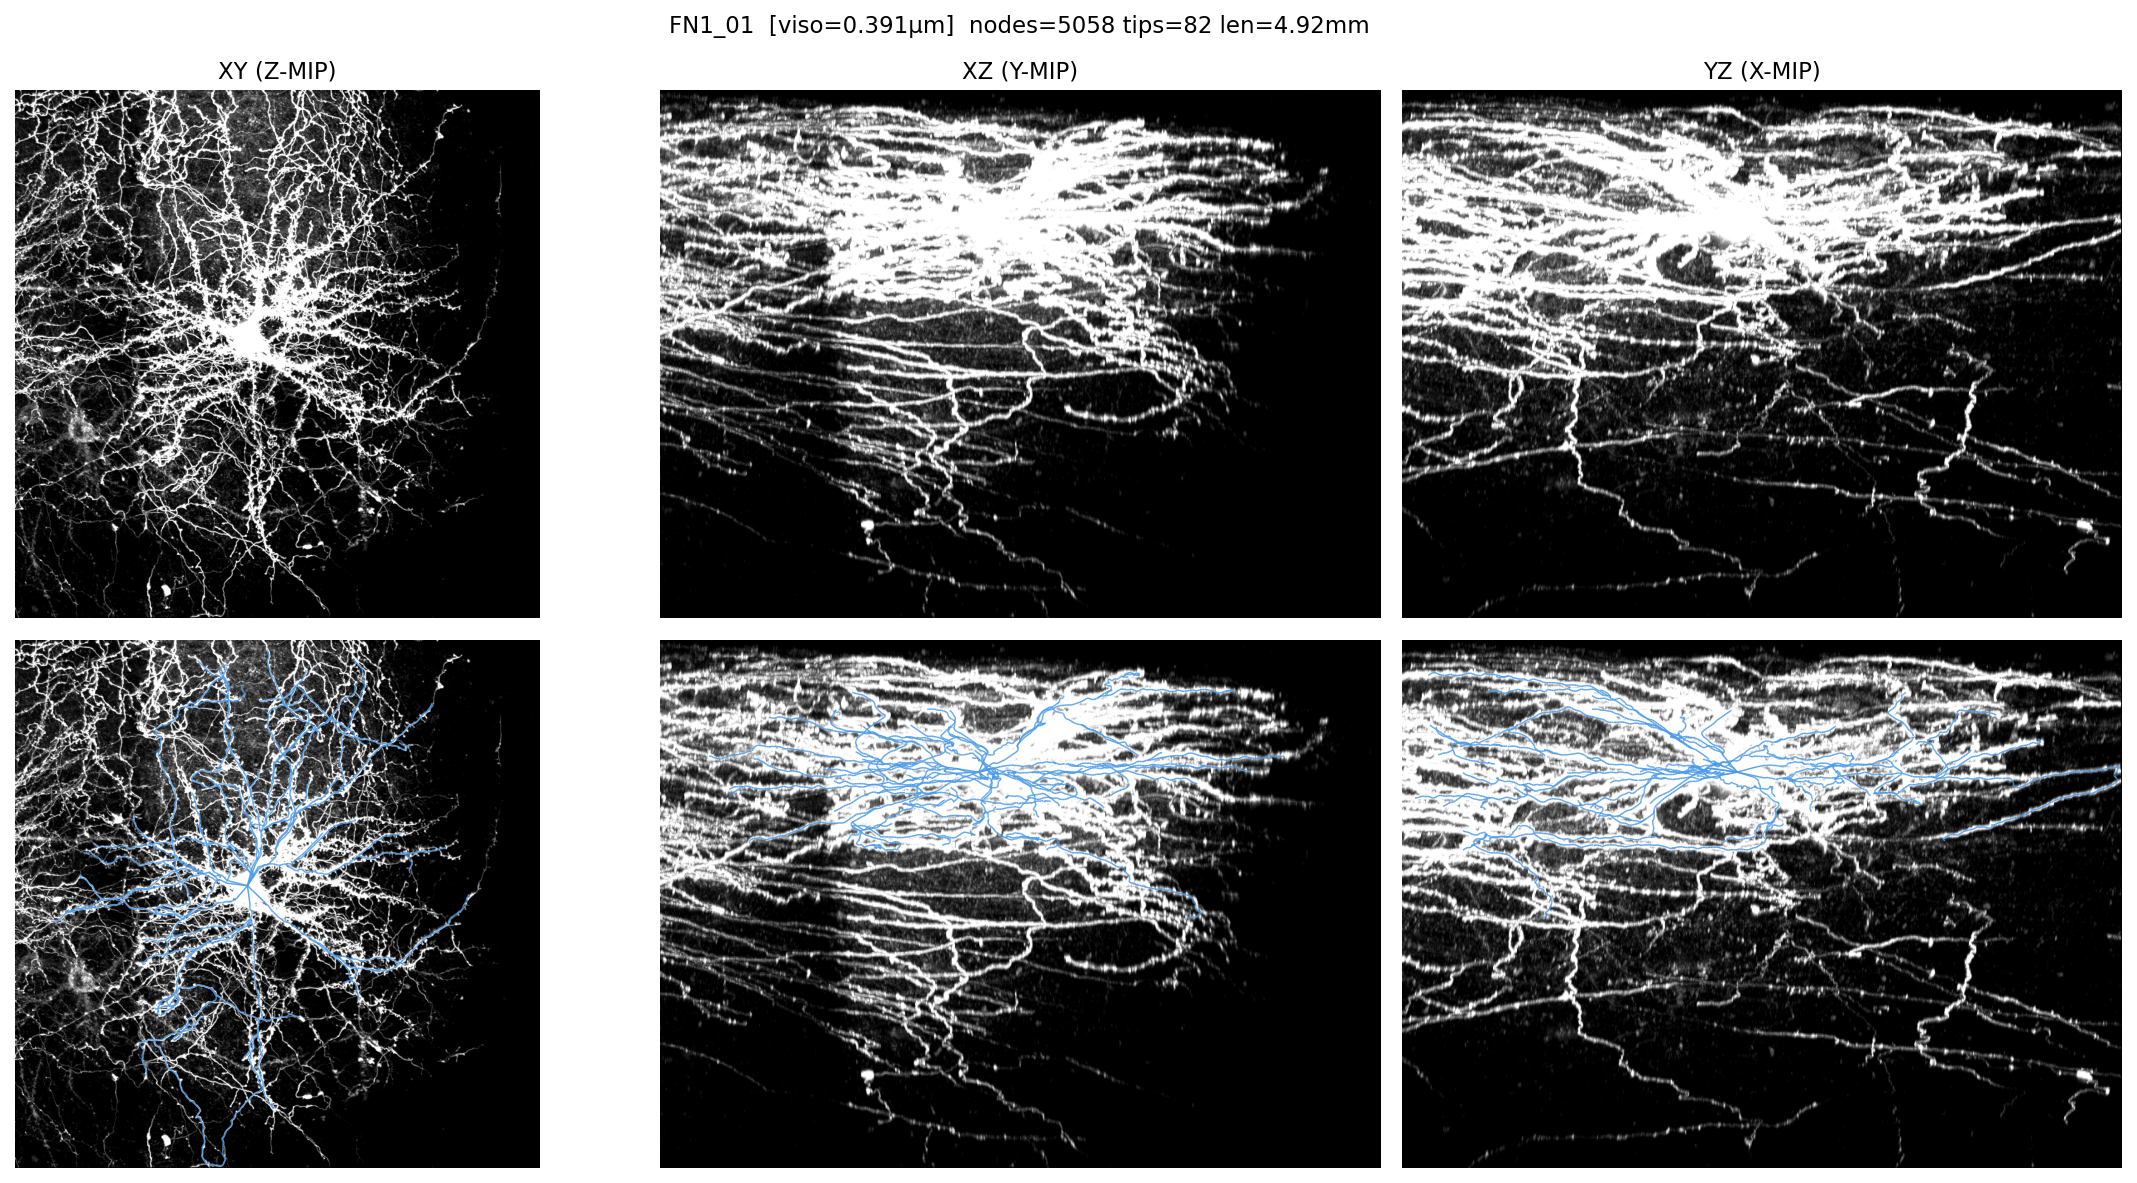
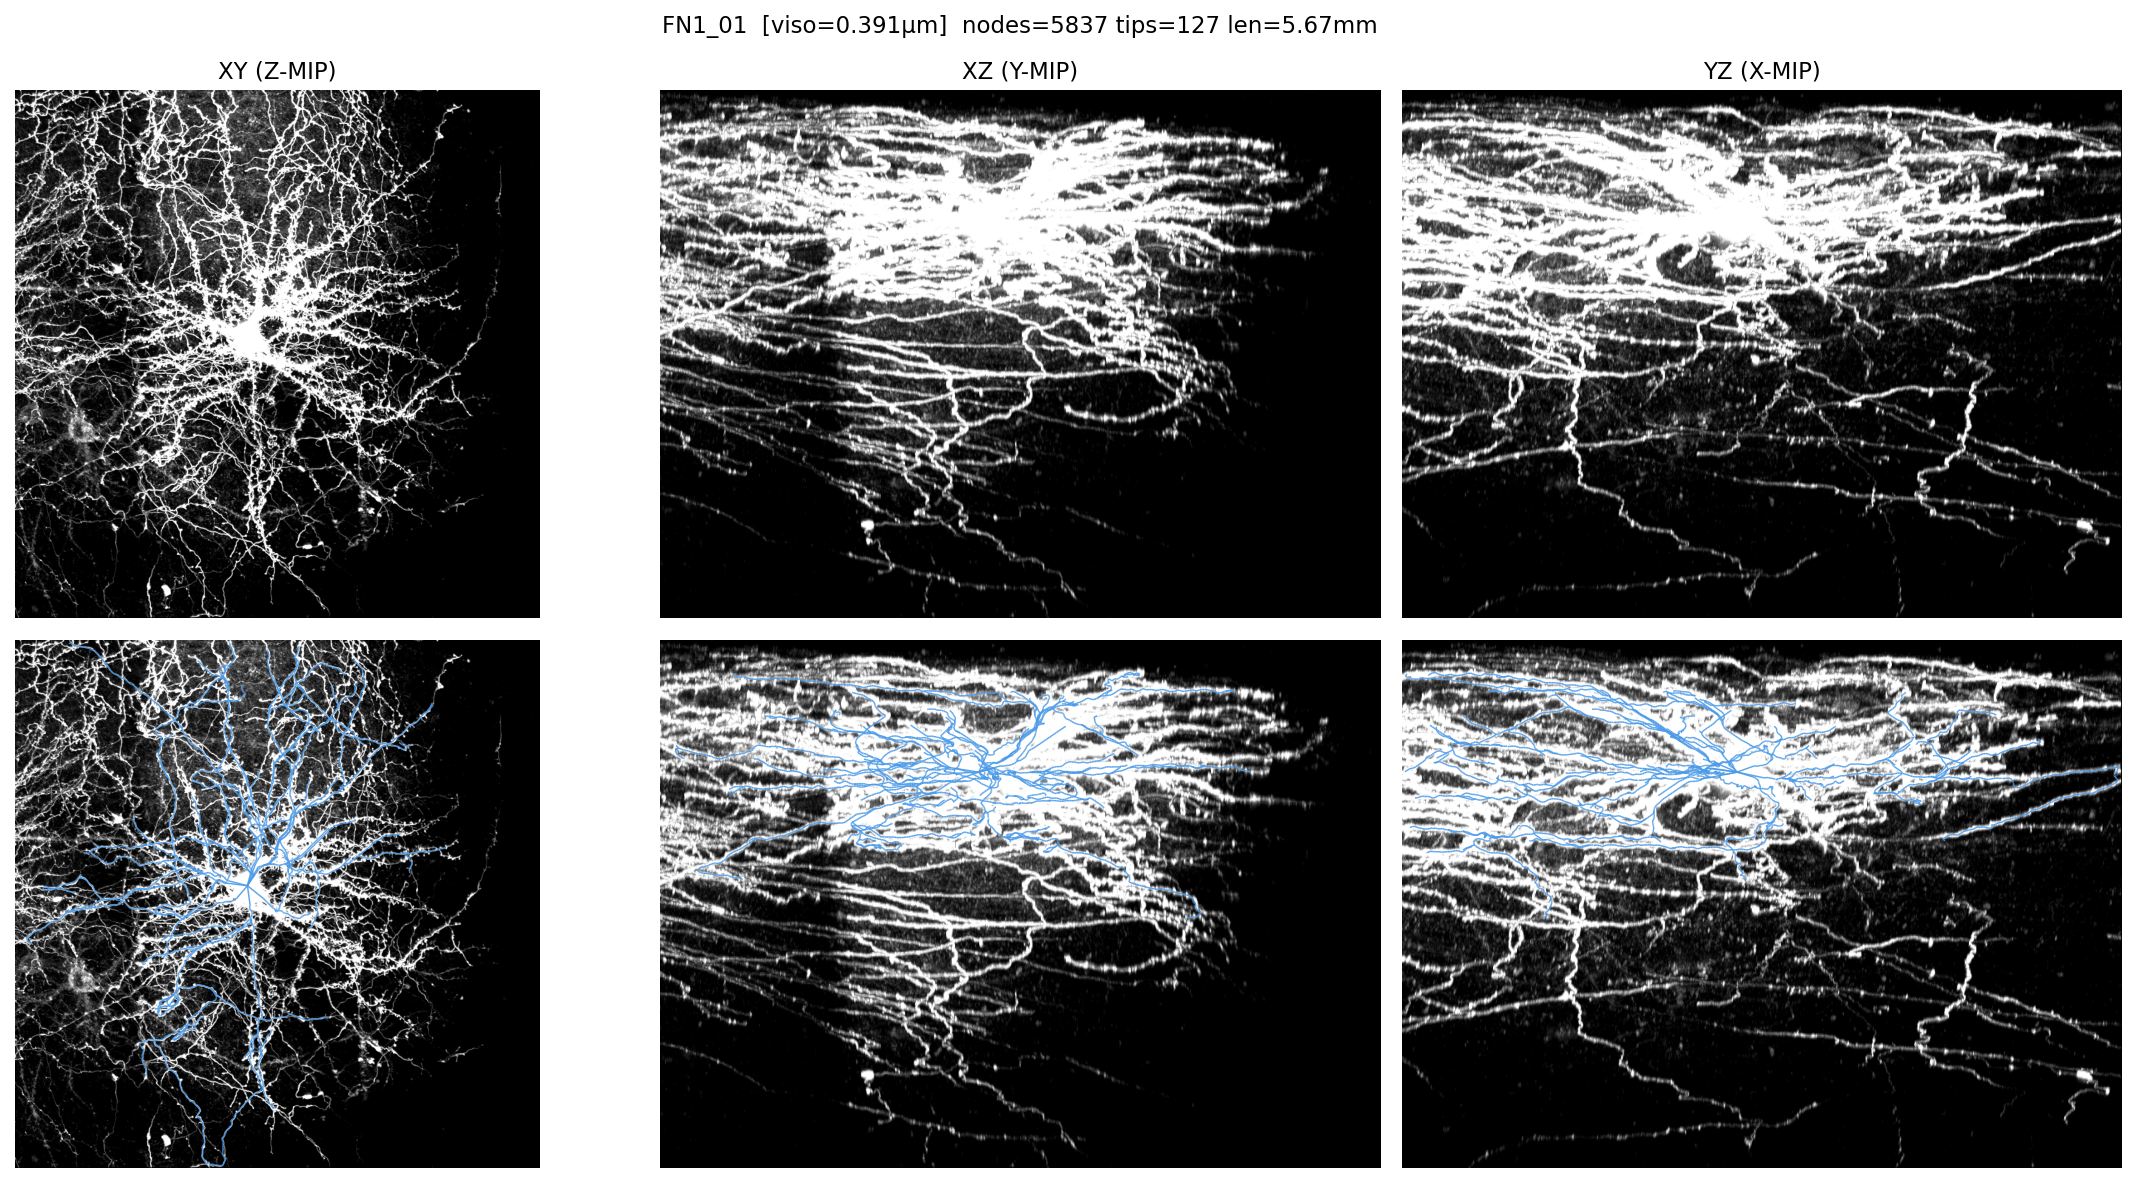
benchmark: coherence 적용 T_combined 기반 기준값 업데이트 + evaluation 셀 보강
- results_raw.csv: s06b/s10mm를 coherence weighting 적용 T_combined로 재실행한
  결과로 업데이트 (s06b ESA 11.3→14.2, s10mm F1 0.462→0.496)
- evaluate_new.ipynb: TP/FP/FN 공간 오버레이, MIP 전처리 비교, step0 정규화
  비교, Wiener 미리보기, antialias MIP 등 시각화 셀 추가
- step3_auto.py: Tips detected 출력에 reachable 카운트 추가 (포맷 정리)
- 신규 evaluation 이미지 다수 추가 (overlap, mip, morphology, 3d 등)

diff --git a/benchmark/methods/ours/step3_auto.py b/benchmark/methods/ours/step3_auto.py
@@ -223,19 +223,20 @@ def main():
     print(f'FMM done in {time.time()-t0:.1f}s')
     print(f'Reachable: {np.isfinite(geodesic_dist).sum():,}')
 
-    # ── Tip detection ────────────────────────────────────────────
+    # ── Tip detection ───────────────────────────────────────────
     geo_finite = geodesic_dist.copy()
     geo_finite[~np.isfinite(geo_finite)] = 0
 
     T_for_tips = gaussian_filter1d(T_down, sigma=SIGMA_Z_SMOOTH, axis=0)
-    _peaks     = peak_local_max(T_for_tips, min_distance=MIN_DIST_VOX,
-                                threshold_abs=MIN_T_TIP, exclude_border=False)
+
+    _peaks = peak_local_max(T_for_tips, min_distance=MIN_DIST_VOX,
+                            threshold_abs=MIN_T_TIP, exclude_border=False)
     tip_coords_all = _peaks if _peaks.dtype != bool else np.argwhere(_peaks)
     tip_vals       = T_down[tip_coords_all[:,0], tip_coords_all[:,1], tip_coords_all[:,2]]
 
-    tip_geo_all = geodesic_dist[tip_coords_all[:,0],
-                                tip_coords_all[:,1],
-                                tip_coords_all[:,2]]
+    tip_geo_all  = geodesic_dist[tip_coords_all[:,0],
+                                 tip_coords_all[:,1],
+                                 tip_coords_all[:,2]]
     reachable    = np.isfinite(tip_geo_all)
     tip_coords_r = tip_coords_all[reachable]
     tip_vals_r   = tip_vals[reachable]
@@ -246,7 +247,7 @@ def main():
     tip_vals_s   = tip_vals_r[sort_idx][:MAX_TIPS]
     tip_geo_s    = tip_geo_r[sort_idx][:MAX_TIPS]
 
-    print(f'Tips detected: {len(tip_coords_all):,}')
+    print(f'Tips detected: {len(tip_coords_all):,}  (reachable: {reachable.sum():,})')
     print(f'Tips selected: {len(tip_coords_s)}'
           f'  geo={tip_geo_s[-1]:.1f}-{tip_geo_s[0]:.1f}'
           f'  T={tip_vals_s.min():.3f}-{tip_vals_s.max():.3f}')